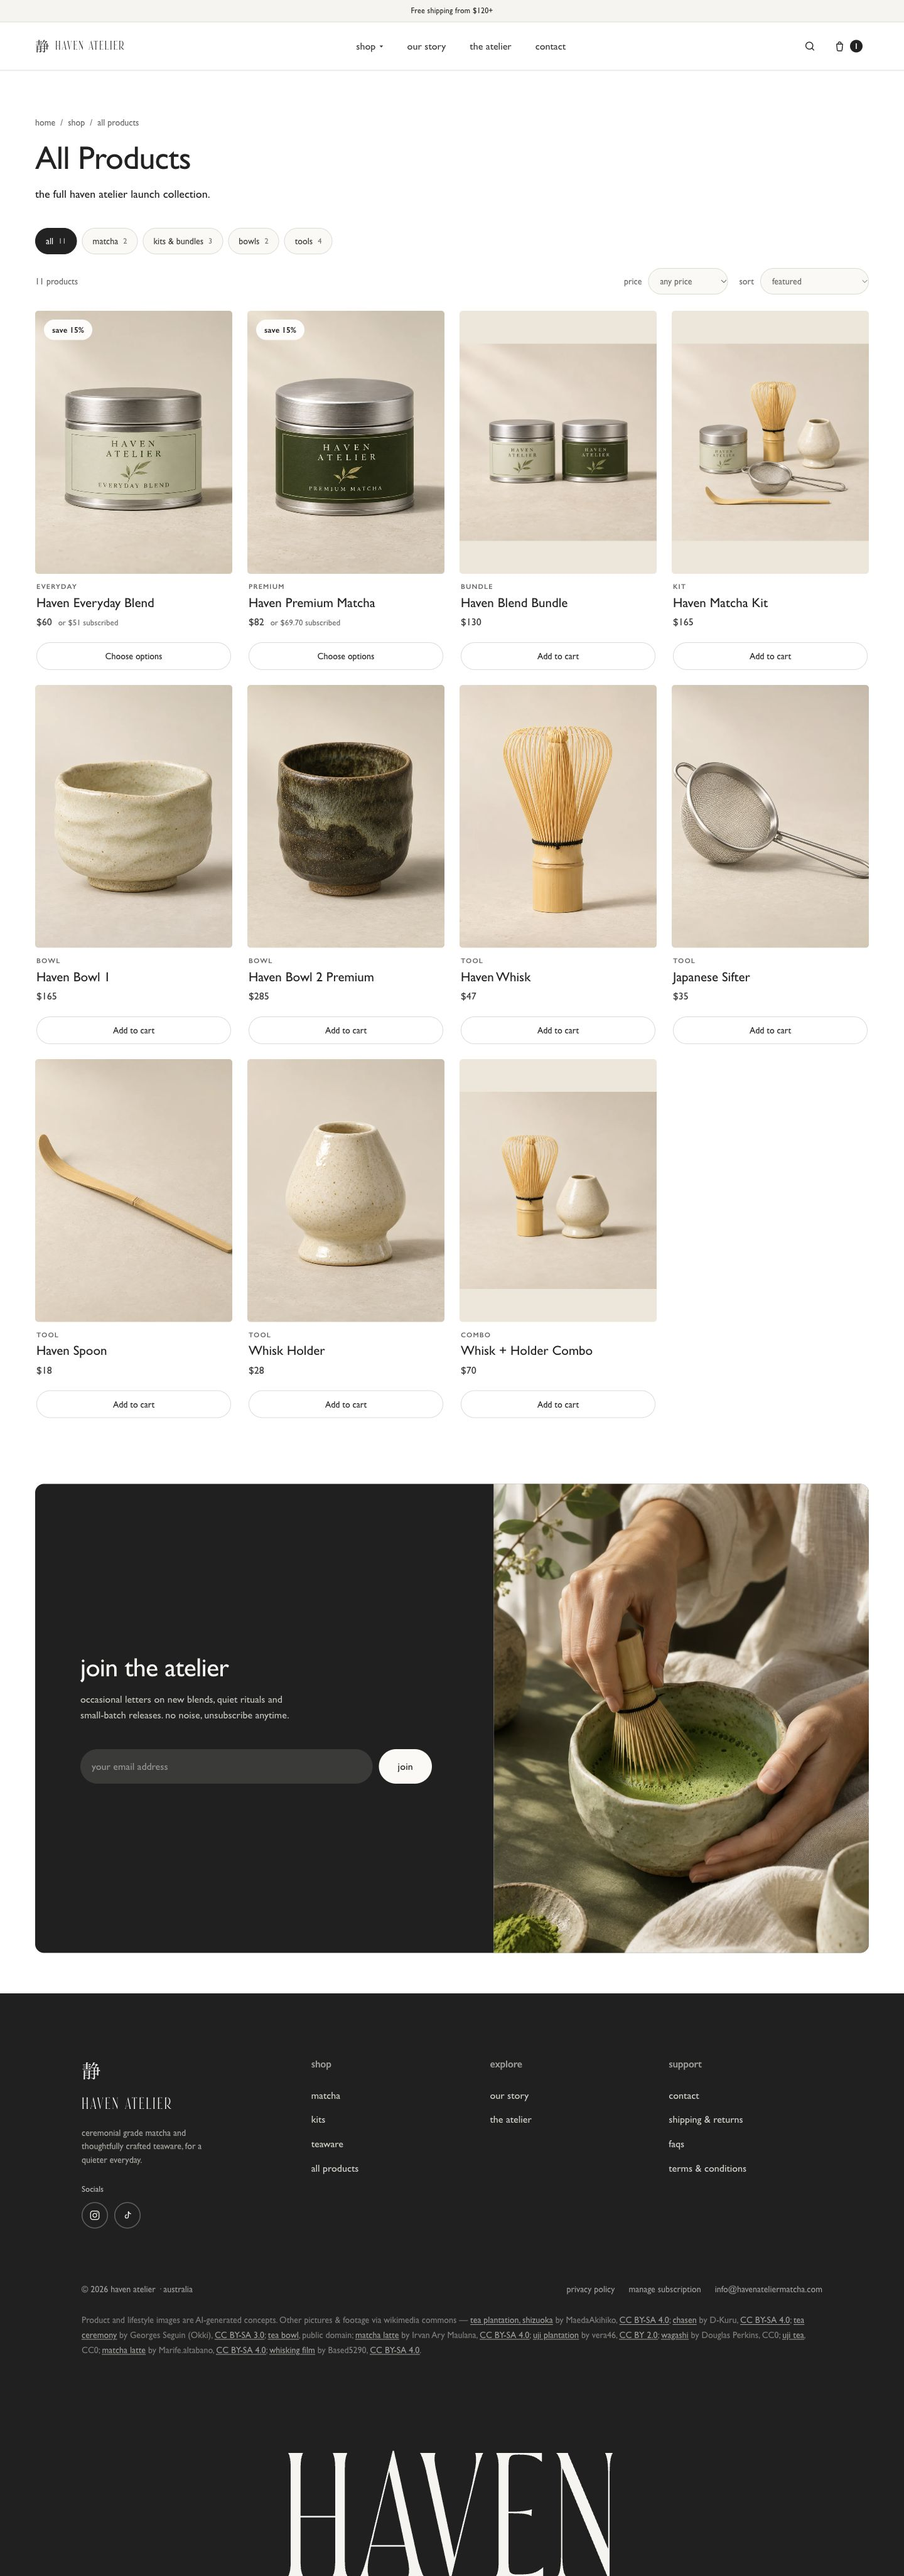
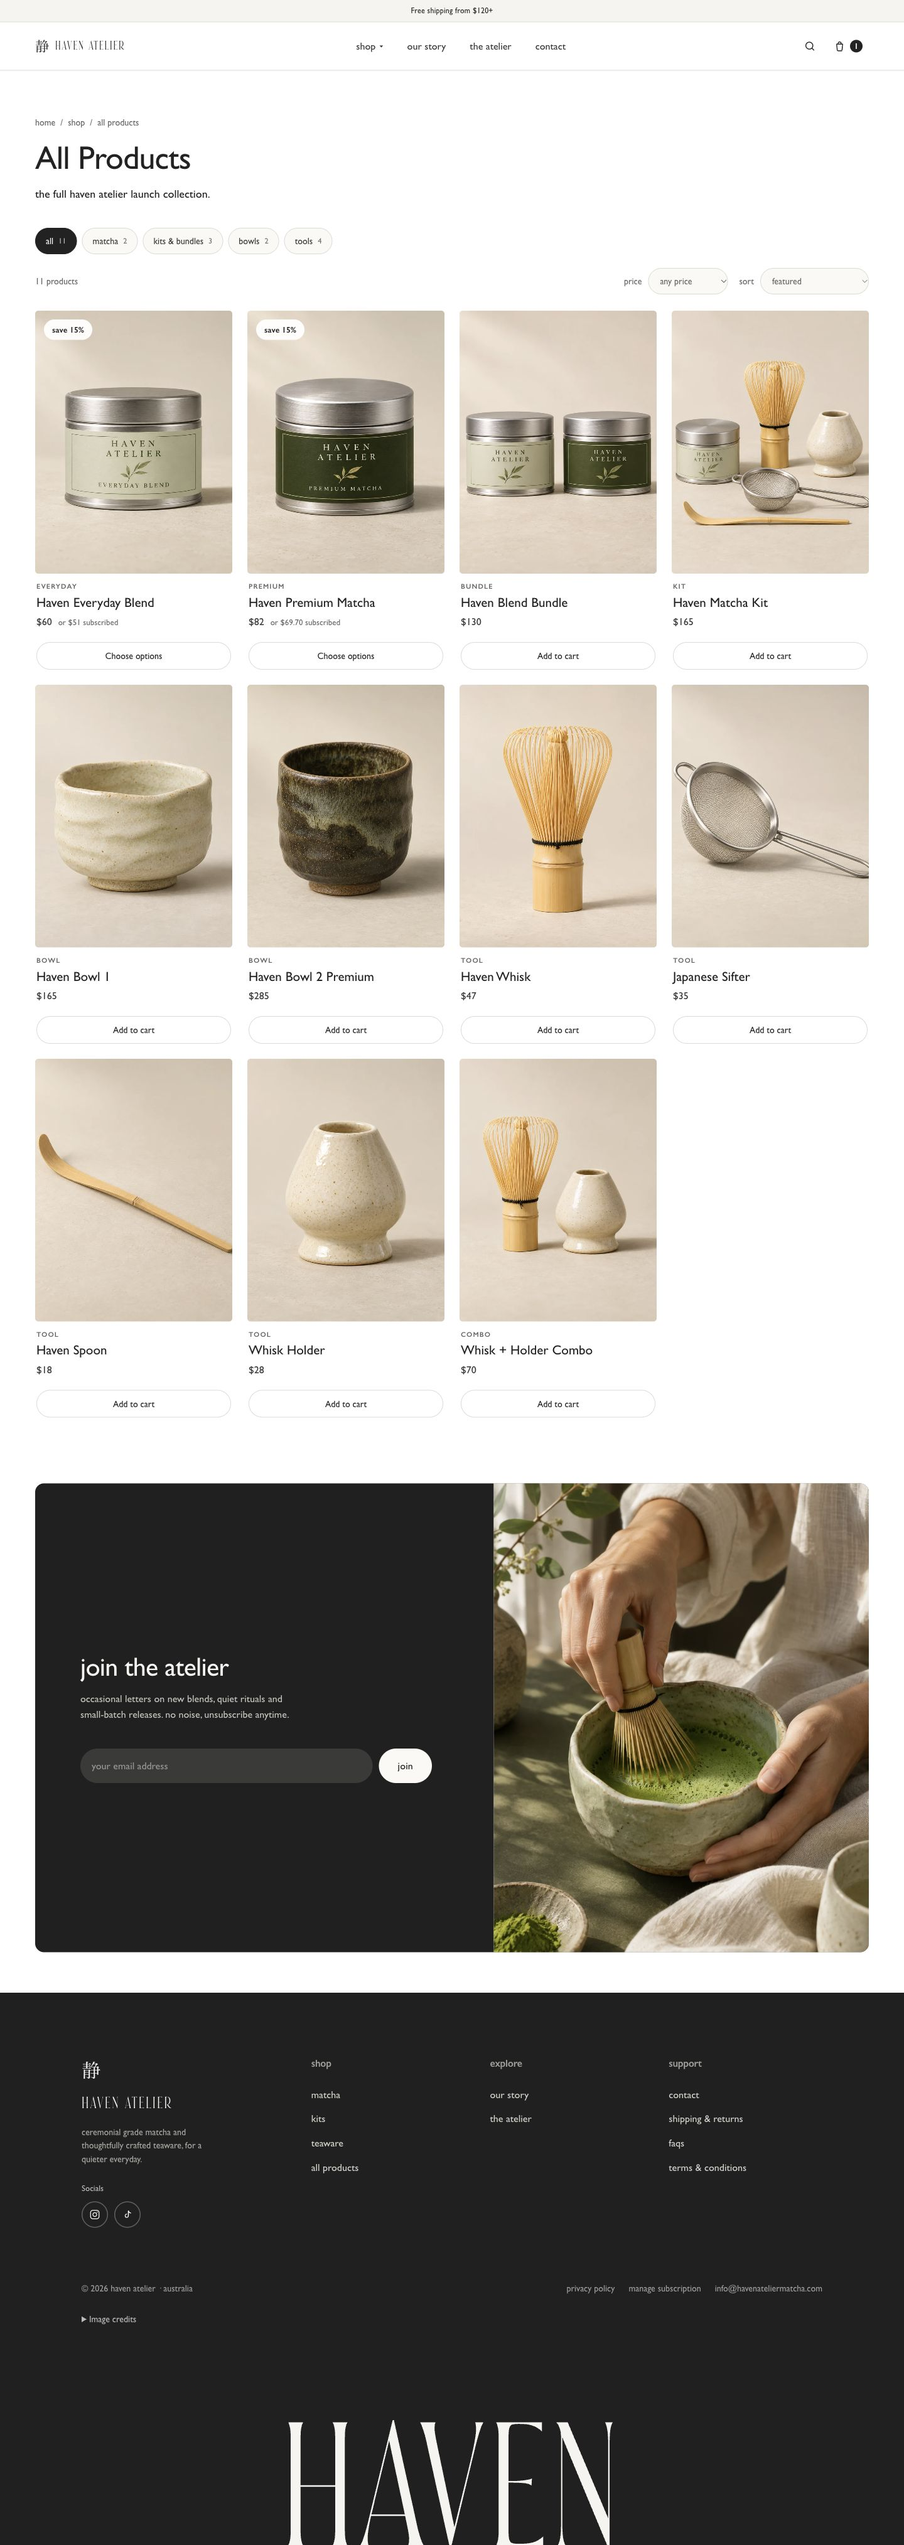
Polish editorial imagery and footer credits

diff --git a/app/src/styles/app.css b/app/src/styles/app.css
@@ -340,16 +340,9 @@ p { margin: 0; }
 }
 .philo-grid { display: grid; grid-template-columns: minmax(0,1.2fr) minmax(0,.8fr); gap: clamp(28px,4vw,64px); align-items: center; margin-top: 8px; }
 .philo-film { margin: 0; }
-.philo-film video { display: block; width: 100%; aspect-ratio: 4/3; object-fit: cover; border-radius: var(--radius); }
+.philo-film img { display: block; width: 100%; aspect-ratio: 4/3; object-fit: cover; border-radius: var(--radius); }
 .philo-film figcaption { padding: 12px 4px 0; color: rgba(244,245,236,.6); font-size: var(--fs-sm); }
-@media (max-width: 860px) { .philo-grid { grid-template-columns: minmax(0,1fr); } .philo-film video { aspect-ratio: 16/10; } }
-@media (prefers-reduced-motion: reduce) {
-  .philo-film video { display: none; }
-  .philo-film::before {
-    content: ''; display: block; aspect-ratio: 4 / 3; border-radius: var(--radius);
-    background: url('/img/matcha-whisking-poster.jpg') center / cover;
-  }
-}
+@media (max-width: 860px) { .philo-grid { grid-template-columns: minmax(0,1fr); } .philo-film img { aspect-ratio: 16/10; } }
 .philosophy .philo-copy { margin-top: 34px; max-width: 56ch; color: rgba(244,245,236,.78); font-size: var(--fs-md); }
 .philosophy .btn { margin-top: 40px; }
 
@@ -1159,7 +1152,7 @@ h3 { font-size: clamp(21px, 2vw, 27px); }
 .home-shop .tab-btn { font-size: 12px; font-weight: 600; letter-spacing: .08em; }
 .card-media { aspect-ratio: 3 / 4; background: #eee6da; border-radius: 5px; }
 .card-media .product-image { object-fit: cover; }
-.card-media.media-wide .product-image { object-fit: contain; }
+.card-media.media-wide .product-image { object-fit: cover; }
 .card-media:hover .product-image { transform: scale(1.025); }
 .card-name { font-family: var(--font-body); font-size: clamp(17px, 1.6vw, 21px); font-weight: 500; color: var(--ink); }
 .card-tag { color: var(--muted); font-size: 11px; font-weight: 600; letter-spacing: .1em; }
@@ -1208,6 +1201,8 @@ h3 { font-size: clamp(21px, 2vw, 27px); }
 .footer-social-wrap { margin-top: 22px; }
 .footer-social-heading { font-size: 13px; color: rgba(255,255,255,.72); }
 .footer-social { margin-top: 10px; }
+.footer-credits summary { width: fit-content; cursor: pointer; color: rgba(255,255,255,.7); }
+.footer-credits p { margin: 10px 0 0; }
 
 @media (max-width: 960px) {
   .nav-item .nav-dropdown.open { display: none; }

diff --git a/app/src/components/Footer.jsx b/app/src/components/Footer.jsx
@@ -70,8 +70,9 @@ export default function Footer() {
             <a href={`mailto:${CONTACT_EMAIL}`}>{CONTACT_EMAIL}</a>
           </span>
         </div>
-        <p className="footer-credits">
-          Product and lifestyle images are AI-generated concepts. Other pictures &amp; footage via wikimedia commons —{' '}
+        <details className="footer-credits">
+          <summary>Image credits</summary>
+          <p>Product and lifestyle images are AI-generated concepts. Other pictures via Wikimedia Commons —{' '}
           <a href="https://commons.wikimedia.org/wiki/File:Tea-plantation_Shizuoka-Fukuroi.jpg" target="_blank" rel="noopener noreferrer">tea plantation, shizuoka</a> by MaedaAkihiko,{' '}
           <a href="https://creativecommons.org/licenses/by-sa/4.0" target="_blank" rel="noopener noreferrer">CC BY-SA 4.0</a>;{' '}
           <a href="https://commons.wikimedia.org/wiki/File:Chasen-top_oblique-fs_PNr%C2%B00500.jpg" target="_blank" rel="noopener noreferrer">chasen</a> by D-Kuru,{' '}
@@ -86,10 +87,9 @@ export default function Footer() {
           <a href="https://commons.wikimedia.org/w/index.php?curid=42939336" target="_blank" rel="noopener noreferrer">wagashi</a> by Douglas Perkins, CC0;{' '}
           <a href="https://commons.wikimedia.org/wiki/File:Uji_tea_box_02.jpg" target="_blank" rel="noopener noreferrer">uji tea</a>, CC0;{' '}
           <a href="https://commons.wikimedia.org/w/index.php?curid=127618604" target="_blank" rel="noopener noreferrer">matcha latte</a> by Marife.altabano,{' '}
-          <a href="https://creativecommons.org/licenses/by-sa/4.0/" target="_blank" rel="noopener noreferrer">CC BY-SA 4.0</a>;{' '}
-          <a href="https://commons.wikimedia.org/wiki/File:Matcha_latte_whisking.webm" target="_blank" rel="noopener noreferrer">whisking film</a> by Based5290,{' '}
-          <a href="https://creativecommons.org/licenses/by-sa/4.0" target="_blank" rel="noopener noreferrer">CC BY-SA 4.0</a>.
-        </p>
+          <a href="https://creativecommons.org/licenses/by-sa/4.0/" target="_blank" rel="noopener noreferrer">CC BY-SA 4.0</a>.
+          </p>
+        </details>
       </div>
 
       <div className="footer-giant" aria-hidden="true">HAVEN</div>

diff --git a/app/src/pages/Home.jsx b/app/src/pages/Home.jsx
@@ -45,9 +45,7 @@ function Philosophy() {
           </div>
         </Reveal>
         <figure className="philo-film">
-          <video autoPlay muted loop playsInline preload="metadata" poster="/img/matcha-whisking-poster.jpg" aria-label="Matcha being whisked">
-            <source src="/img/matcha-whisking.webm" type="video/webm" />
-          </video>
+          <img src="/img/tea-plantation-shizuoka-fukuroi.jpg" alt="Tea fields in Shizuoka, Japan" loading="lazy" />
         </figure>
       </div>
     </section>
